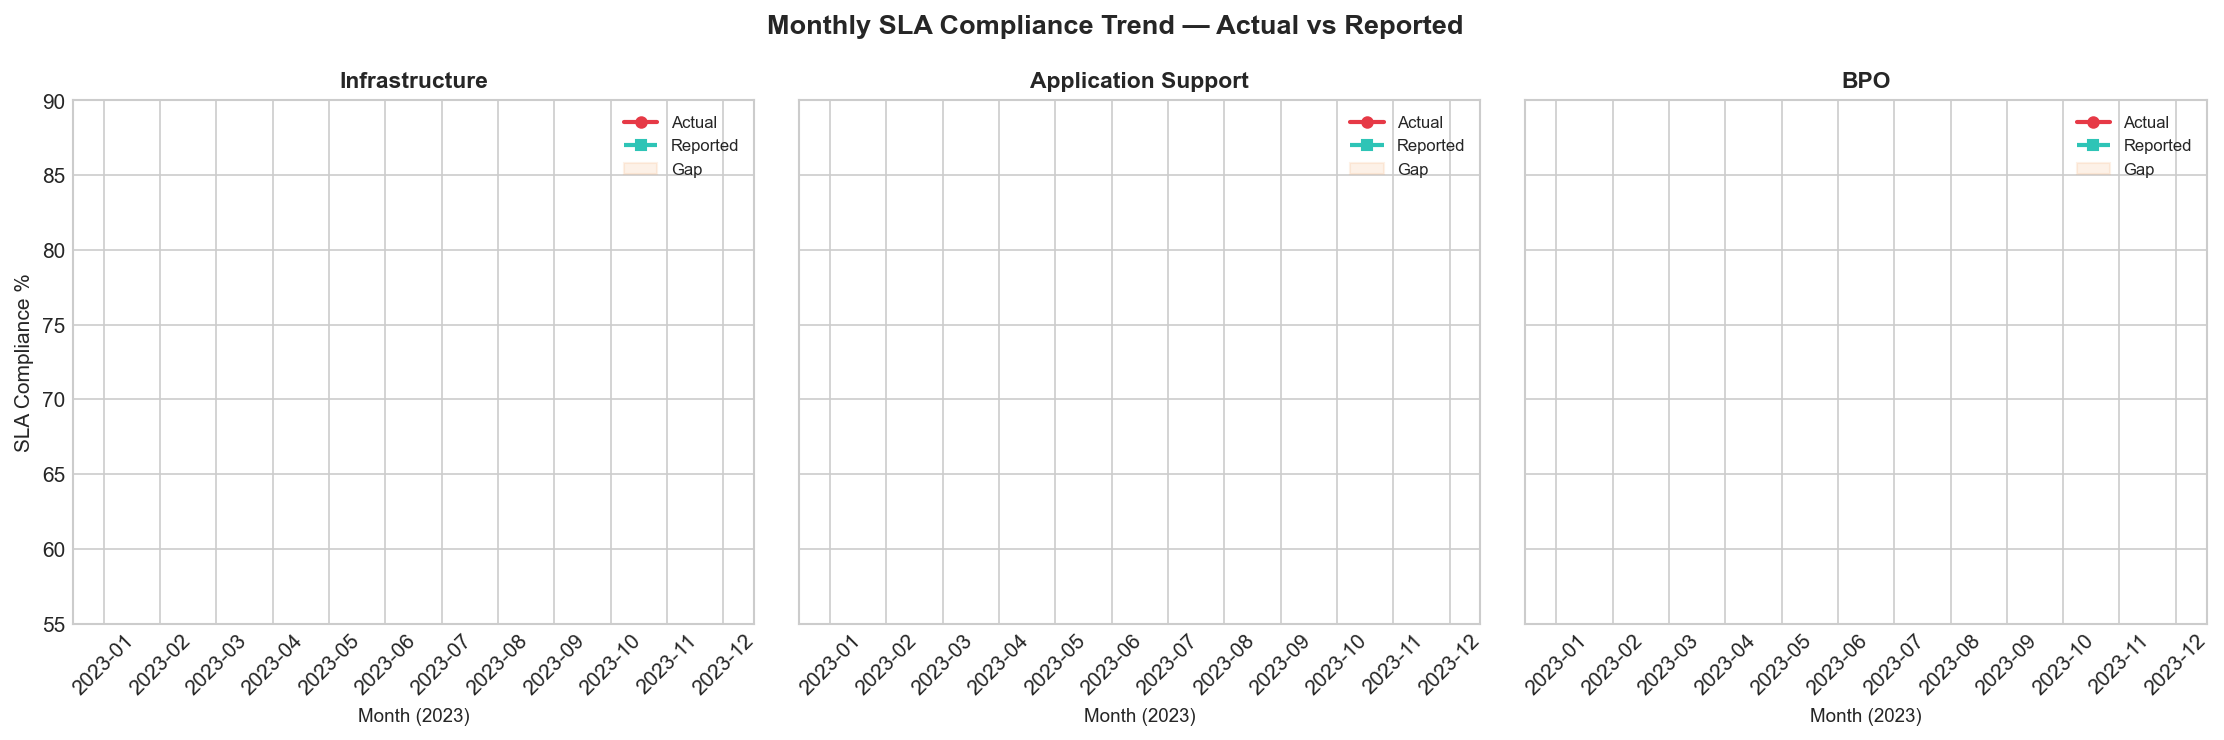
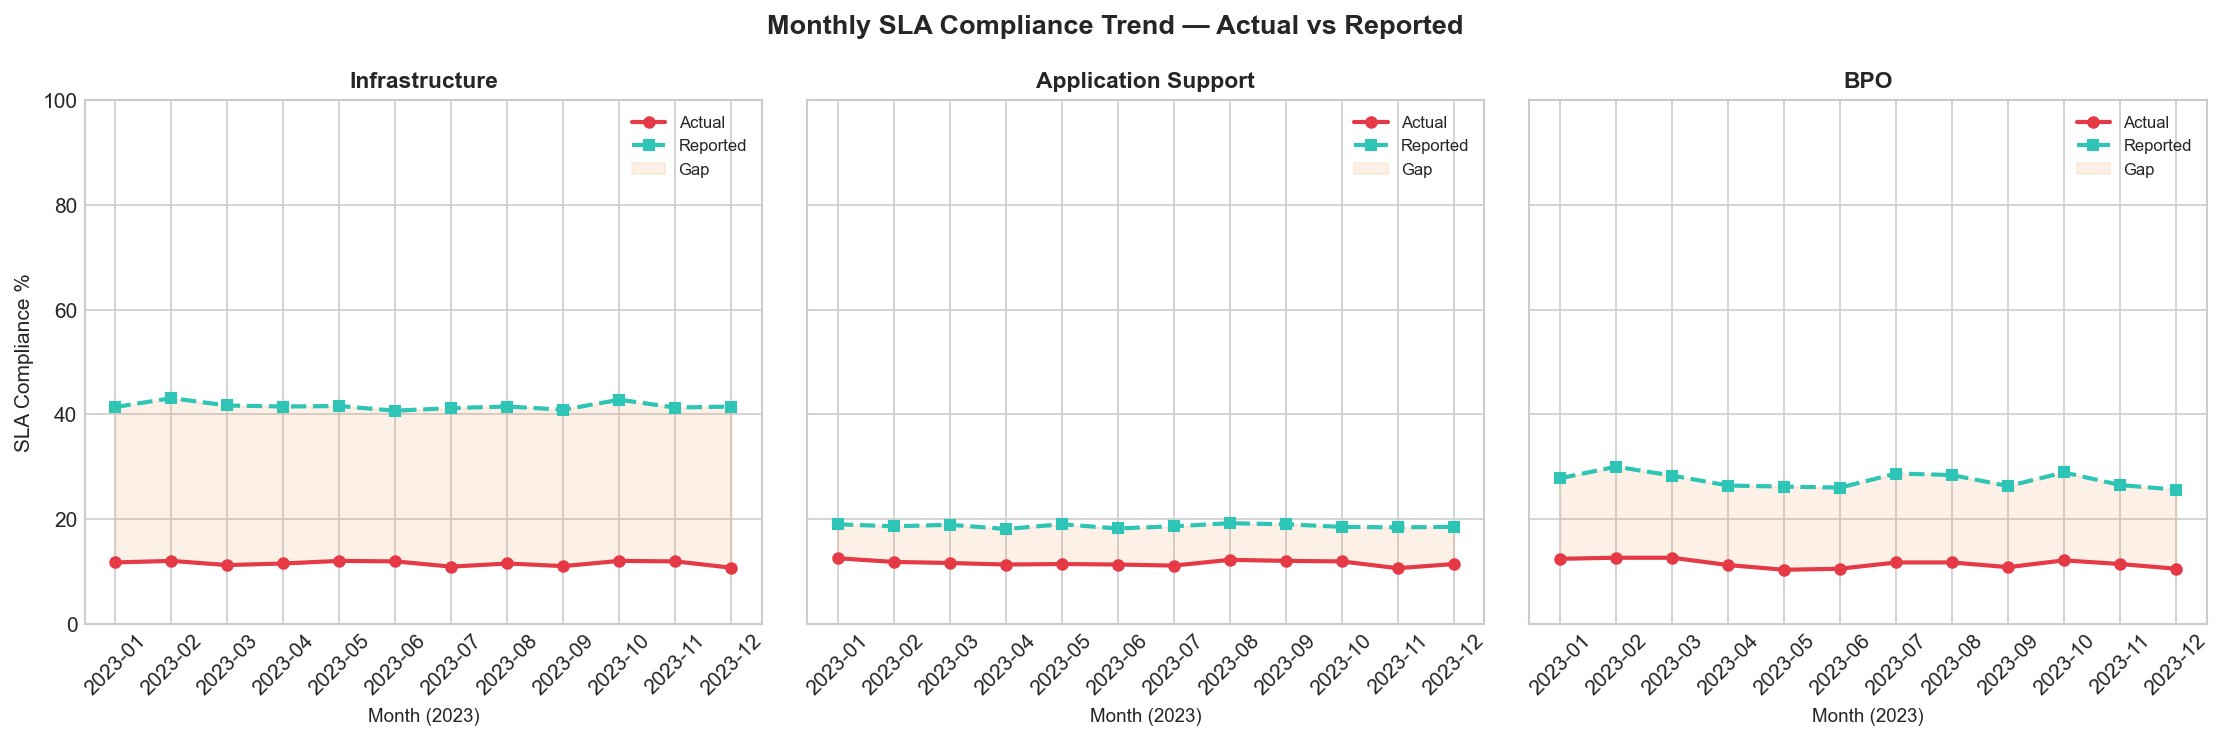
Fix monthly trend chart and add SQL language detection

diff --git a/02_analysis.py b/02_analysis.py
@@ -153,22 +153,22 @@ fig.suptitle("Monthly SLA Compliance Trend — Actual vs Reported", fontsize=13,
 
 for ax, sl in zip(axes, service_lines):
     sub = monthly[monthly["service_line"] == sl].sort_values("month")
-    months_short = [m[-2:] for m in sub["month"]]   # show just month number
+    months_short = list(sub["month"])   # show just month number
     ax.plot(months_short, sub["actual_pct"],   color=COL_RED,   marker="o", linewidth=2, label="Actual",   markersize=5)
     ax.plot(months_short, sub["reported_pct"], color=COL_GREEN, marker="s", linewidth=2, label="Reported", markersize=5, linestyle="--")
     ax.fill_between(months_short, sub["actual_pct"], sub["reported_pct"], alpha=0.15, color=COL_AMBER, label="Gap")
     ax.set_title(sl, fontsize=11, fontweight="bold")
     ax.set_xlabel("Month (2023)", fontsize=9)
     ax.tick_params(axis="x", rotation=45)
-    ax.set_ylim(55, 90)
+    ax.set_ylim(0, 100)
     if ax == axes[0]:
         ax.set_ylabel("SLA Compliance %", fontsize=10)
     ax.legend(fontsize=8)
 
 plt.tight_layout()
-plt.savefig("charts/03_monthly_trend.png", dpi=150, bbox_inches="tight")
+plt.savefig("Charts/03_monthly_trend.png", dpi=150, bbox_inches="tight")
 plt.close()
-print("Saved: charts/03_monthly_trend.png")
+print("Saved: Charts/03_monthly_trend.png")
 
 # ─────────────────────────────────────────────────────────────
 # ANALYSIS 4: Team Accountability